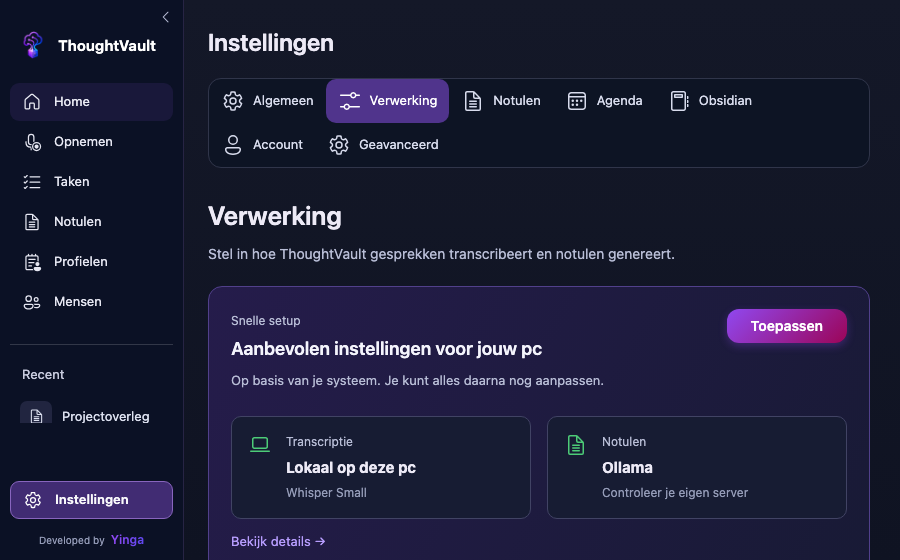
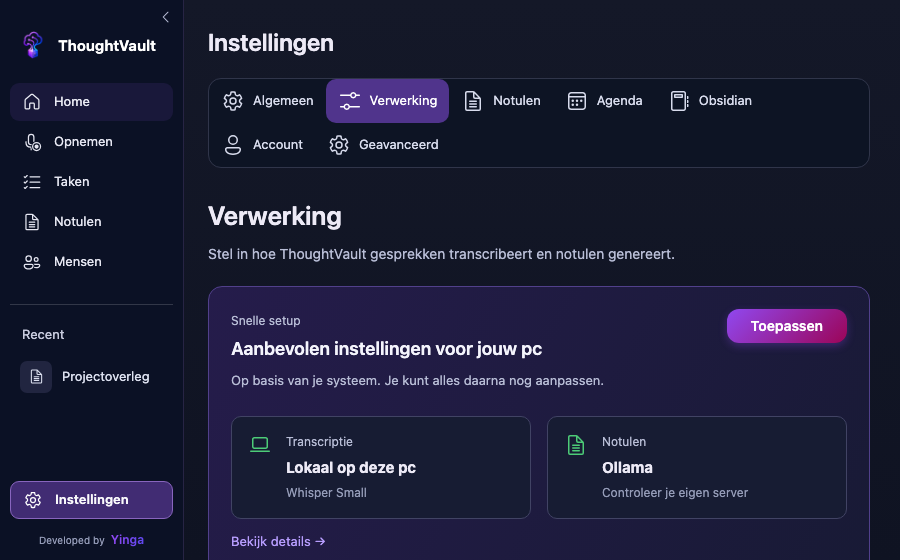
Document macOS navigation and expanded desktop review

diff --git a/docs/qa/windows-desktop-responsive/check-settings.py b/docs/qa/windows-desktop-responsive/check-settings.py
@@ -1,0 +1,26 @@
+import subprocess,json,re
+from pathlib import Path
+root=Path(__file__).resolve().parents[3]
+b=str(Path.home()/'.claude/skills/gstack/browse/dist/browse')
+p=subprocess.run([b,'newtab','http://localhost:1442/desktop-review.html','--json'],cwd=root/'windows',text=True,capture_output=True,check=True)
+tab=str(json.loads(p.stdout)['tabId'])
+def call(cmds):
+ p=subprocess.run([b,'chain'],input=json.dumps([['tab',tab]]+cmds),text=True,capture_output=True,check=True,cwd=root/'windows')
+ assert 'ERROR:' not in p.stdout,p.stdout
+ return p.stdout
+def click(label):
+ s=call([['snapshot','-i']]);refs=[r for r,t in re.findall(r'(@e\d+) \[button\] "([^"]+)"',s) if t==label];assert refs,(label,s)
+ call([['click','main button.btn-accent']]) if label=='Volgende' else call([['click',refs[0]]])
+measure="JSON.stringify((()=>{const bad=[...document.querySelectorAll('main input,main button,main select,main textarea')].filter(e=>e.getClientRects().length).filter(e=>e.getBoundingClientRect().right>innerWidth+2);if(bad.length)throw Error('Clipped controls');return {width:innerWidth,clipped:0};})())"
+try:
+    for size in ['640x560','900x560','1200x800']:
+     call([['viewport',size],['goto','http://localhost:1442/desktop-review.html?qa=settings#/settings'],['snapshot','-i']])
+     for name in ['Algemeen','Verwerking','Notulen','Agenda','Obsidian','Account','Geavanceerd']:
+      click(name);print(name,call([['js',measure]]).split('[js]')[-1].strip())
+    call([['viewport','640x560'],['goto','http://localhost:1442/desktop-review.html?qa=onboarding#/onboarding'],['snapshot','-i']])
+    for step in range(6):
+     print('onboarding',step,call([['js',measure]]).split('[js]')[-1].strip())
+     if step<5:click('Overslaan' if step==4 else 'Volgende')
+    print('PASS: 21 settings tab/viewport combinations and 6 onboarding steps')
+finally:
+    call([["closetab",tab]])

diff --git a/docs/qa/windows-desktop-responsive/README.md b/docs/qa/windows-desktop-responsive/README.md
@@ -1,8 +1,8 @@
 # Windows desktop responsiveness
 
-Source starts at bf331ae (latest unreleased audit fixes, based on released 1.0.260).
-The released Windows baseline and these changes were reconciled into a branch
-based on Gitea main. Website and unrelated platform sources remain intact.
+Source is based on current Gitea main. The released Windows distribution settings
+and the presentation fixes were ported without importing unrelated app changes.
+Website and unrelated platform sources remain intact.
 The responsive presentation is applied to the current main implementation.
 Obsidian conflict handling, credential storage and recording quick notes are retained.
 
@@ -53,3 +53,26 @@ available computer control did not reliably execute, and Parallels CLI guest
 commands require a Pro/Business license on this host. Do not claim interactive
 Parallels validation. The exact candidate is built and installation/upgrade tested
 on Windows through the existing GitHub workflow; record its final result below.
+
+## macOS navigation and sheet review
+
+The local navigation matches `AppTab` in macOS ContentView: Home, Opnemen,
+Taken, Notulen, Mensen, Instellingen. Ctrl+1 through Ctrl+6 follows that order.
+Profiles are managed within Settings > Notulen. Legacy /profiles links redirect
+to that tab. Existing recording profile selection remains available.
+
+`python3 docs/qa/windows-desktop-responsive/check-settings.py` checks all seven
+settings tabs at 640x560, 900x560 and 1200x800, plus six onboarding steps.
+The 21 tab/viewport checks and six steps passed without clipped controls.
+
+Browser sheet review at 640x560 covers person editing, participant selection,
+profile creation, quick notes during a simulated recording, attendee review,
+tags, regeneration and note deletion. Open sheets kept focus inside, fit within
+the viewport and closed with Escape. Profile creation also restored focus to
+its opening button. Sheet contents use the existing app components, not mockups.
+The common sheet behavior also applies to task confirmations and profile deletion.
+
+Recording stop, Obsidian replacement and model deletion now use native Windows
+confirmation dialogs. Native file/folder pickers and the separate floating recorder
+keep their existing platform implementations. Interactive OS dialog, floating-window
+and audio-device checks in Parallels remain unverified.
